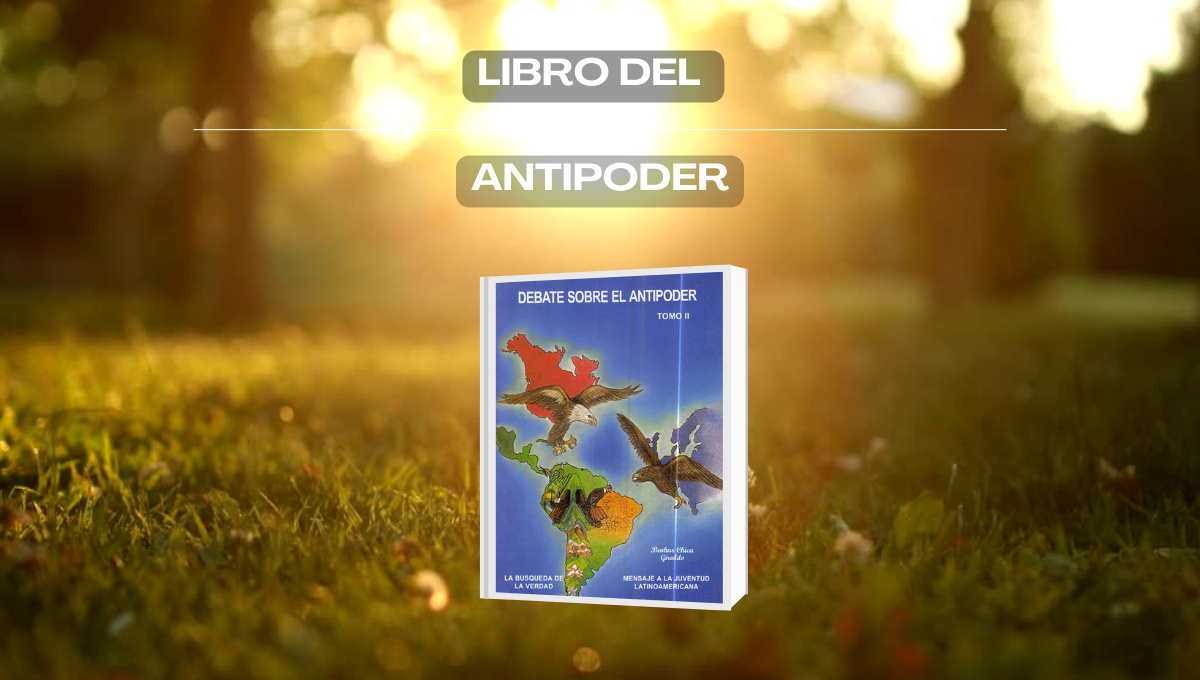
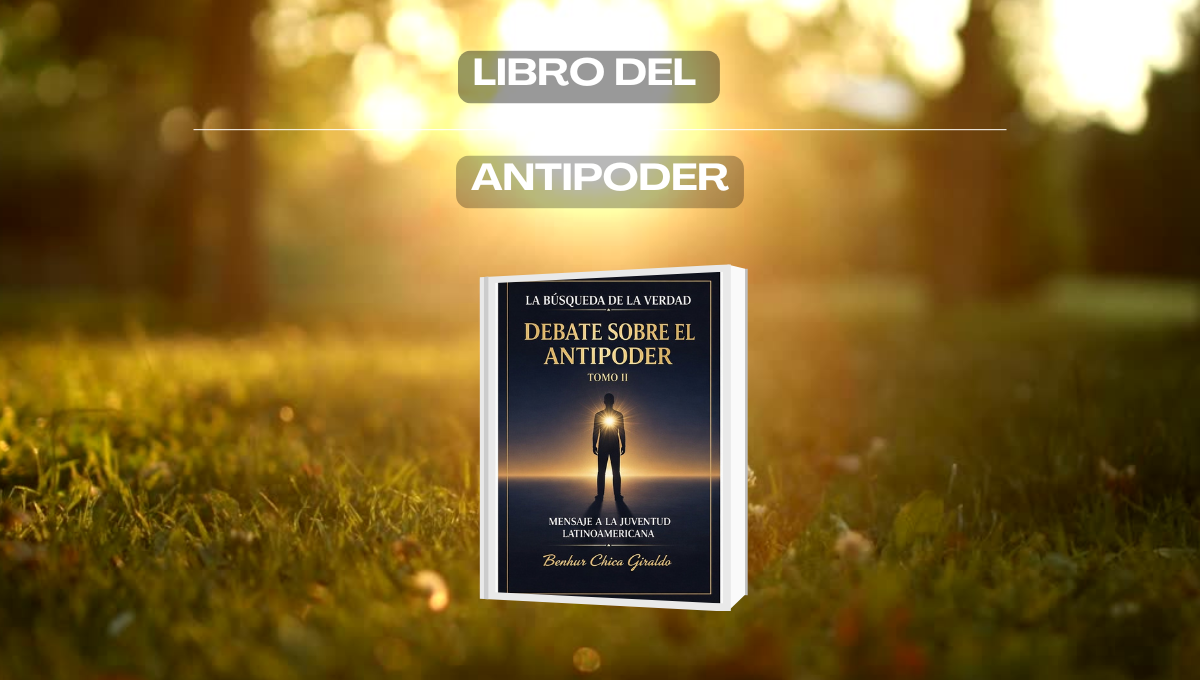
add-changes

Changed region(s): [[0.4008, 0.4015, 0.6167, 0.8956], [0.37, 0.0618, 0.6167, 0.1544]]

diff --git a/src/content/post/librodebatesobreelpoder.md b/src/content/post/librodebatesobreelpoder.md
@@ -10,4 +10,4 @@ tags:
 canonical: https://sistemasautoorganizados.com/librodebatesobreelpoder
 ---
 
-<iframe src="https://drive.google.com/file/d/1MQcDssneZlcpnBZHvpbgnlHsFJbrXYEp/preview" width="100%" height="2000px" ></iframe>
+<iframe src="https://drive.google.com/file/d/1GvFk-iQSZx56R34SIVS8lB9WL99mYGyg/preview" width="100%" height="2000px" ></iframe>
